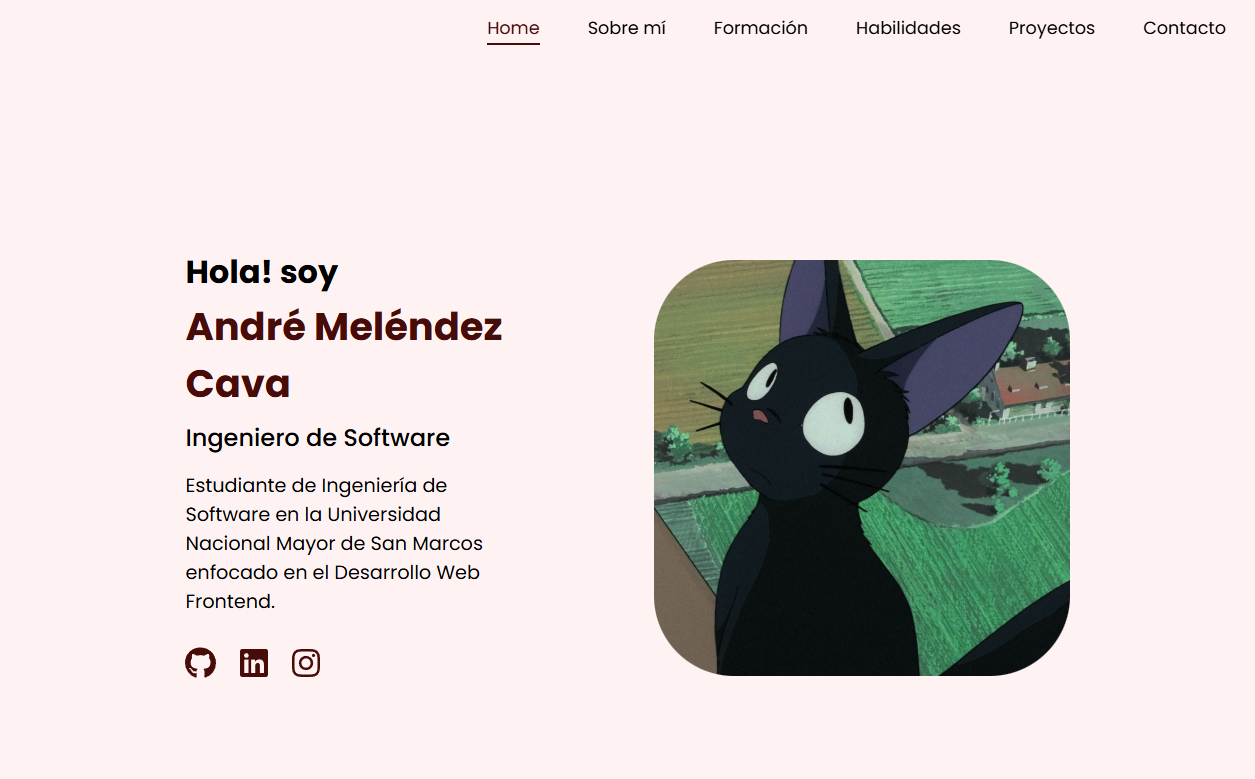
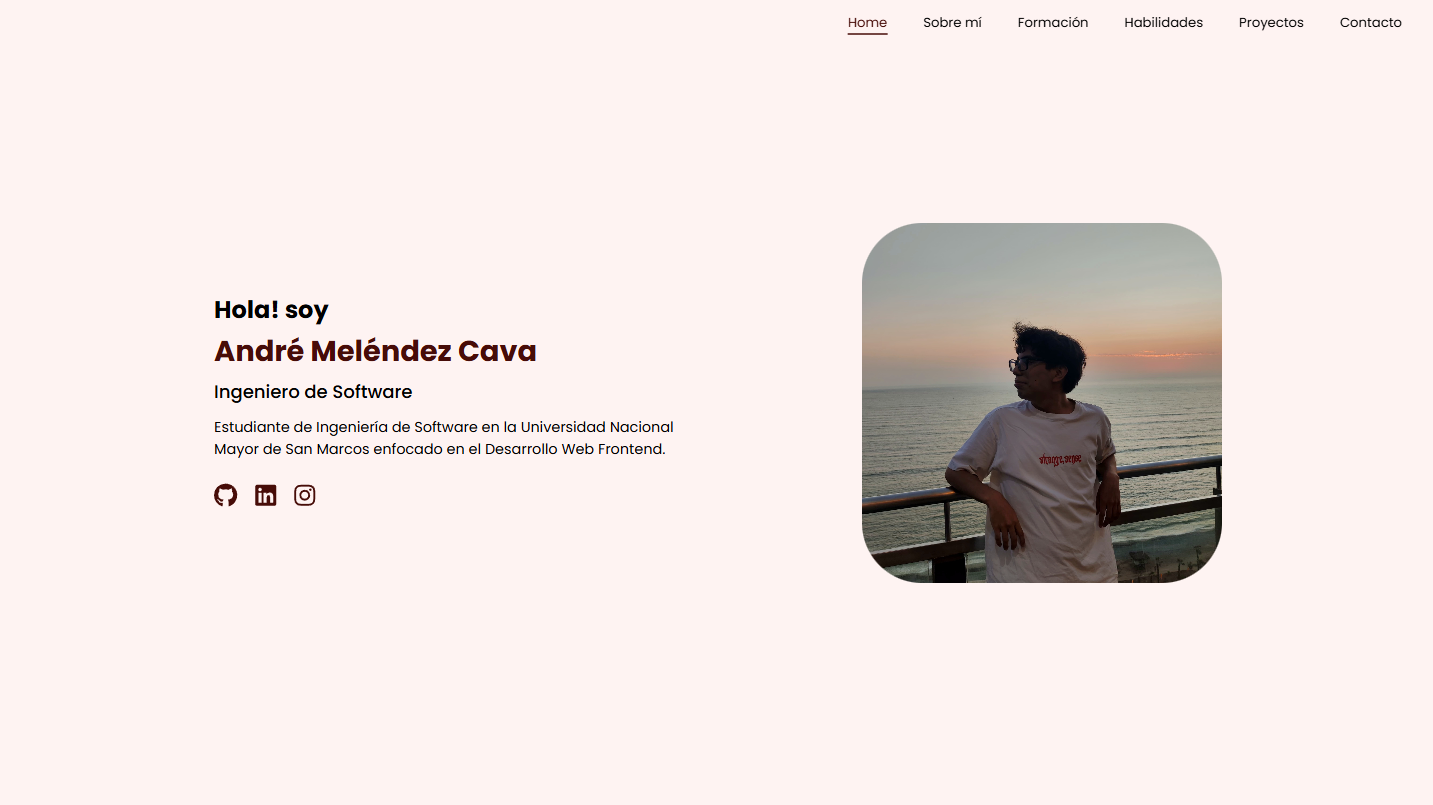
Finishing v1

diff --git a/frontend/src/components/About.jsx b/frontend/src/components/About.jsx
@@ -7,6 +7,8 @@ import {
   FaCode,
 } from "react-icons/fa";
 import imagenEjemplo from "../assets/imagen_ejemplo.jpg";
+import imagenPerfil from "../assets/imagen_perfil.jpg";
+import imagenPerfil2 from "../assets/imagen_perfil2.jpg";
 import "../styles/About.css";
 import "../styles/Animations.css";
 import useScrollAnimation from "../util/useScrollAnimation";
@@ -18,6 +20,14 @@ const About = () => {
   const goToContact = () => {
     window.location.href = "#contact";
   };
+
+  const goToDrive = () => {
+    window.open(
+      "https://drive.google.com/file/d/1i6oeaf9w4jEZQCrE-87D9_OZMx6ptS8p/view?usp=sharing",
+      "_blank"
+    );
+  };
+
   // Mapeo de nombres a componentes de iconos
   const Iconos = {
     FaMapMarkerAlt: FaMapMarkerAlt,
@@ -29,7 +39,7 @@ const About = () => {
   // Lista de datos personales
   const DatosPersonales = [
     {
-      icono: "FaMapMarkerAlt", 
+      icono: "FaMapMarkerAlt",
       dato: "Lima, Perú",
     },
     {
@@ -55,8 +65,11 @@ const About = () => {
         <h1>Sobre mí</h1>
       </div>
       <div ref={content.ref} className="about-content">
-        <div ref={content.ref} className={`about-left ${content.visible ? "fade-in" : "fade-out"}`}>
-          <img src={imagenEjemplo} alt="Profile" className="image-profile-2" />
+        <div
+          ref={content.ref}
+          className={`about-left ${content.visible ? "fade-in" : "fade-out"}`}
+        >
+          <img src={imagenPerfil} alt="Profile" className="image-profile-2" />
         </div>
 
         <div
@@ -87,7 +100,9 @@ const About = () => {
             })}
           </div>
           <div className="about-botones">
-            <button className="border-btn">DESCARGAR CV</button>
+            <button onClick={goToDrive} className="border-btn">
+              DESCARGAR CV
+            </button>
             <button onClick={goToContact} className="full-btn">
               CONTACTO
             </button>

diff --git a/frontend/src/components/Home.jsx b/frontend/src/components/Home.jsx
@@ -2,6 +2,8 @@ import React from "react";
 import "../styles/Home.css";
 import "../styles/Animations.css";
 import imagenEjemplo from "../assets/imagen_ejemplo.jpg";
+import imagenPerfil from "../assets/imagen_perfil.jpg";
+import imagenPerfil2 from "../assets/imagen_perfil2.jpg";
 import { FontAwesomeIcon } from "@fortawesome/react-fontawesome";
 import {
   faGithub,
@@ -55,7 +57,7 @@ const Home = () => {
         </div>
       </div>
       <div ref={ref} className={`home-right ${visible ? "fade-in" : "fade-out"}`}>
-        <img src={imagenEjemplo} alt="Profile" className="image-profile" />
+        <img src={imagenPerfil2} alt="Profile" className="image-profile" />
       </div>
     </section>
   );

diff --git a/frontend/src/styles/About.css b/frontend/src/styles/About.css
@@ -115,6 +115,19 @@
   transition: all 0.3s ease;
 }
 
+.image-profile-2 {
+  max-width: 5rem;
+  aspect-ratio: 4 / 5;
+  object-fit: cover;
+  object-position: center 25%;
+  border-radius: 5rem;
+  transition: transform 0.2s ease-in-out;
+}
+
+.image-profile-2:hover {
+  transform: scale(1.04);
+}
+
 @media (max-width: 1015px) {
   .about-section {
     padding: 3rem 0;

diff --git a/frontend/src/styles/Home.css b/frontend/src/styles/Home.css
@@ -62,10 +62,12 @@
 }
 
 .image-profile {
-  height: 26rem;
-  width: auto;
+  max-width: 30rem;
+  aspect-ratio: 1 / 1;
+  object-fit: cover;
+  object-position: center 30%;
   border-radius: 5rem;
-  transition: transform 0.1s ease-in-out;
+  transition: transform 0.2s ease-in-out;
 }
 
 .image-profile:hover {

diff --git a/README.md b/README.md
@@ -1,2 +1,38 @@
-# portafolio
-Mi primer portafolio / página web
+# 📁 Portafolio Personal — André Meléndez Cava
+
+Este proyecto es mi portafolio personal como estudiante de Ingeniería de Software, donde presento mis habilidades, tecnologías que domino y proyectos destacados.
+
+---
+
+## 🛠 Tecnologías Utilizadas
+
+<p align="left">
+  <img src="https://img.shields.io/badge/React-20232A?style=flat-square&logo=react&logoColor=61DAFB" />
+  <img src="https://img.shields.io/badge/Vite-646CFF?style=flat-square&logo=vite&logoColor=white" />
+  <img src="https://img.shields.io/badge/JavaScript-F7DF1E?style=flat-square&logo=javascript&logoColor=black" />
+  <img src="https://img.shields.io/badge/HTML5-E34F26?style=flat-square&logo=html5&logoColor=white" />
+  <img src="https://img.shields.io/badge/CSS3-1572B6?style=flat-square&logo=css3&logoColor=white" />
+</p>
+
+---
+
+## 📸 Vista previa
+
+![Captura del portafolio](./frontend/src/assets/proyecto_portafolio.png) <!-- Puedes cambiar esto por una imagen real de tu proyecto -->
+
+---
+
+## 📄 Demo
+
+Puedes ver el portafolio desplegado en:  
+🔗 [https://tusitio.com](https://portafolio-seven-wheat.vercel.app/)
+
+---
+
+## 📦 Instalación local
+
+```bash
+git clone https://github.com/tuusuario/portafolio.git
+cd portafolio
+npm install
+npm run dev
